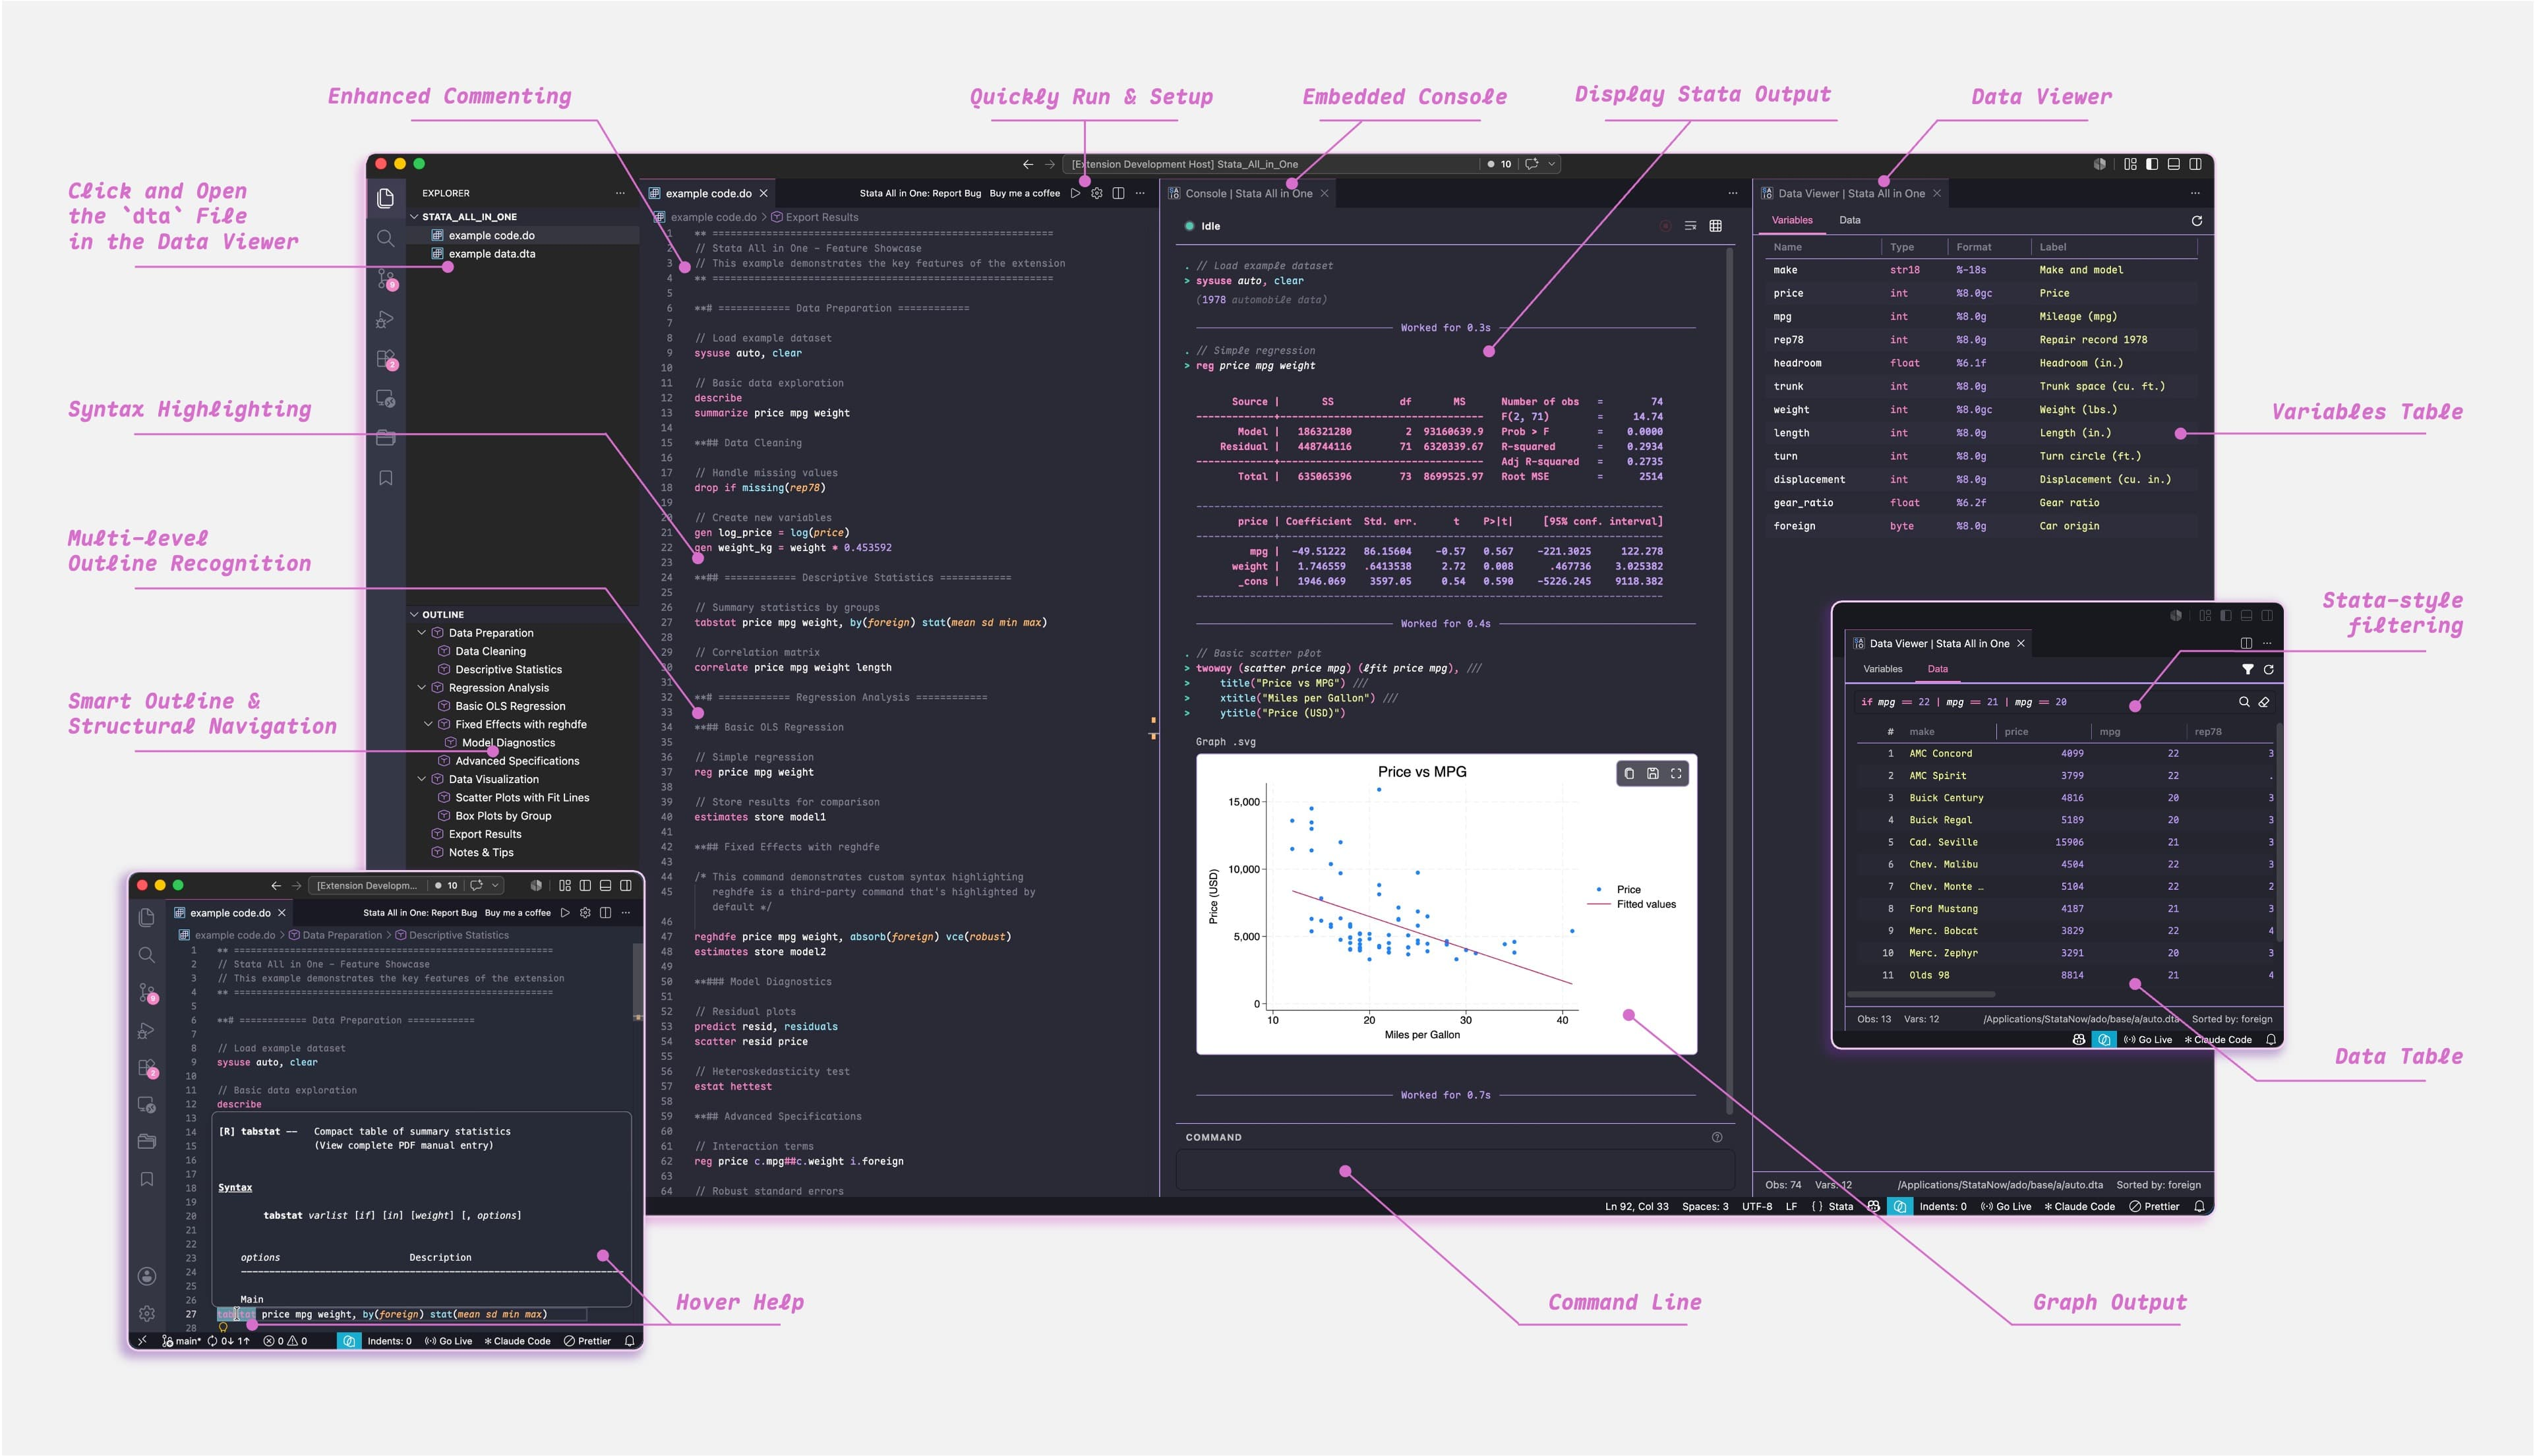
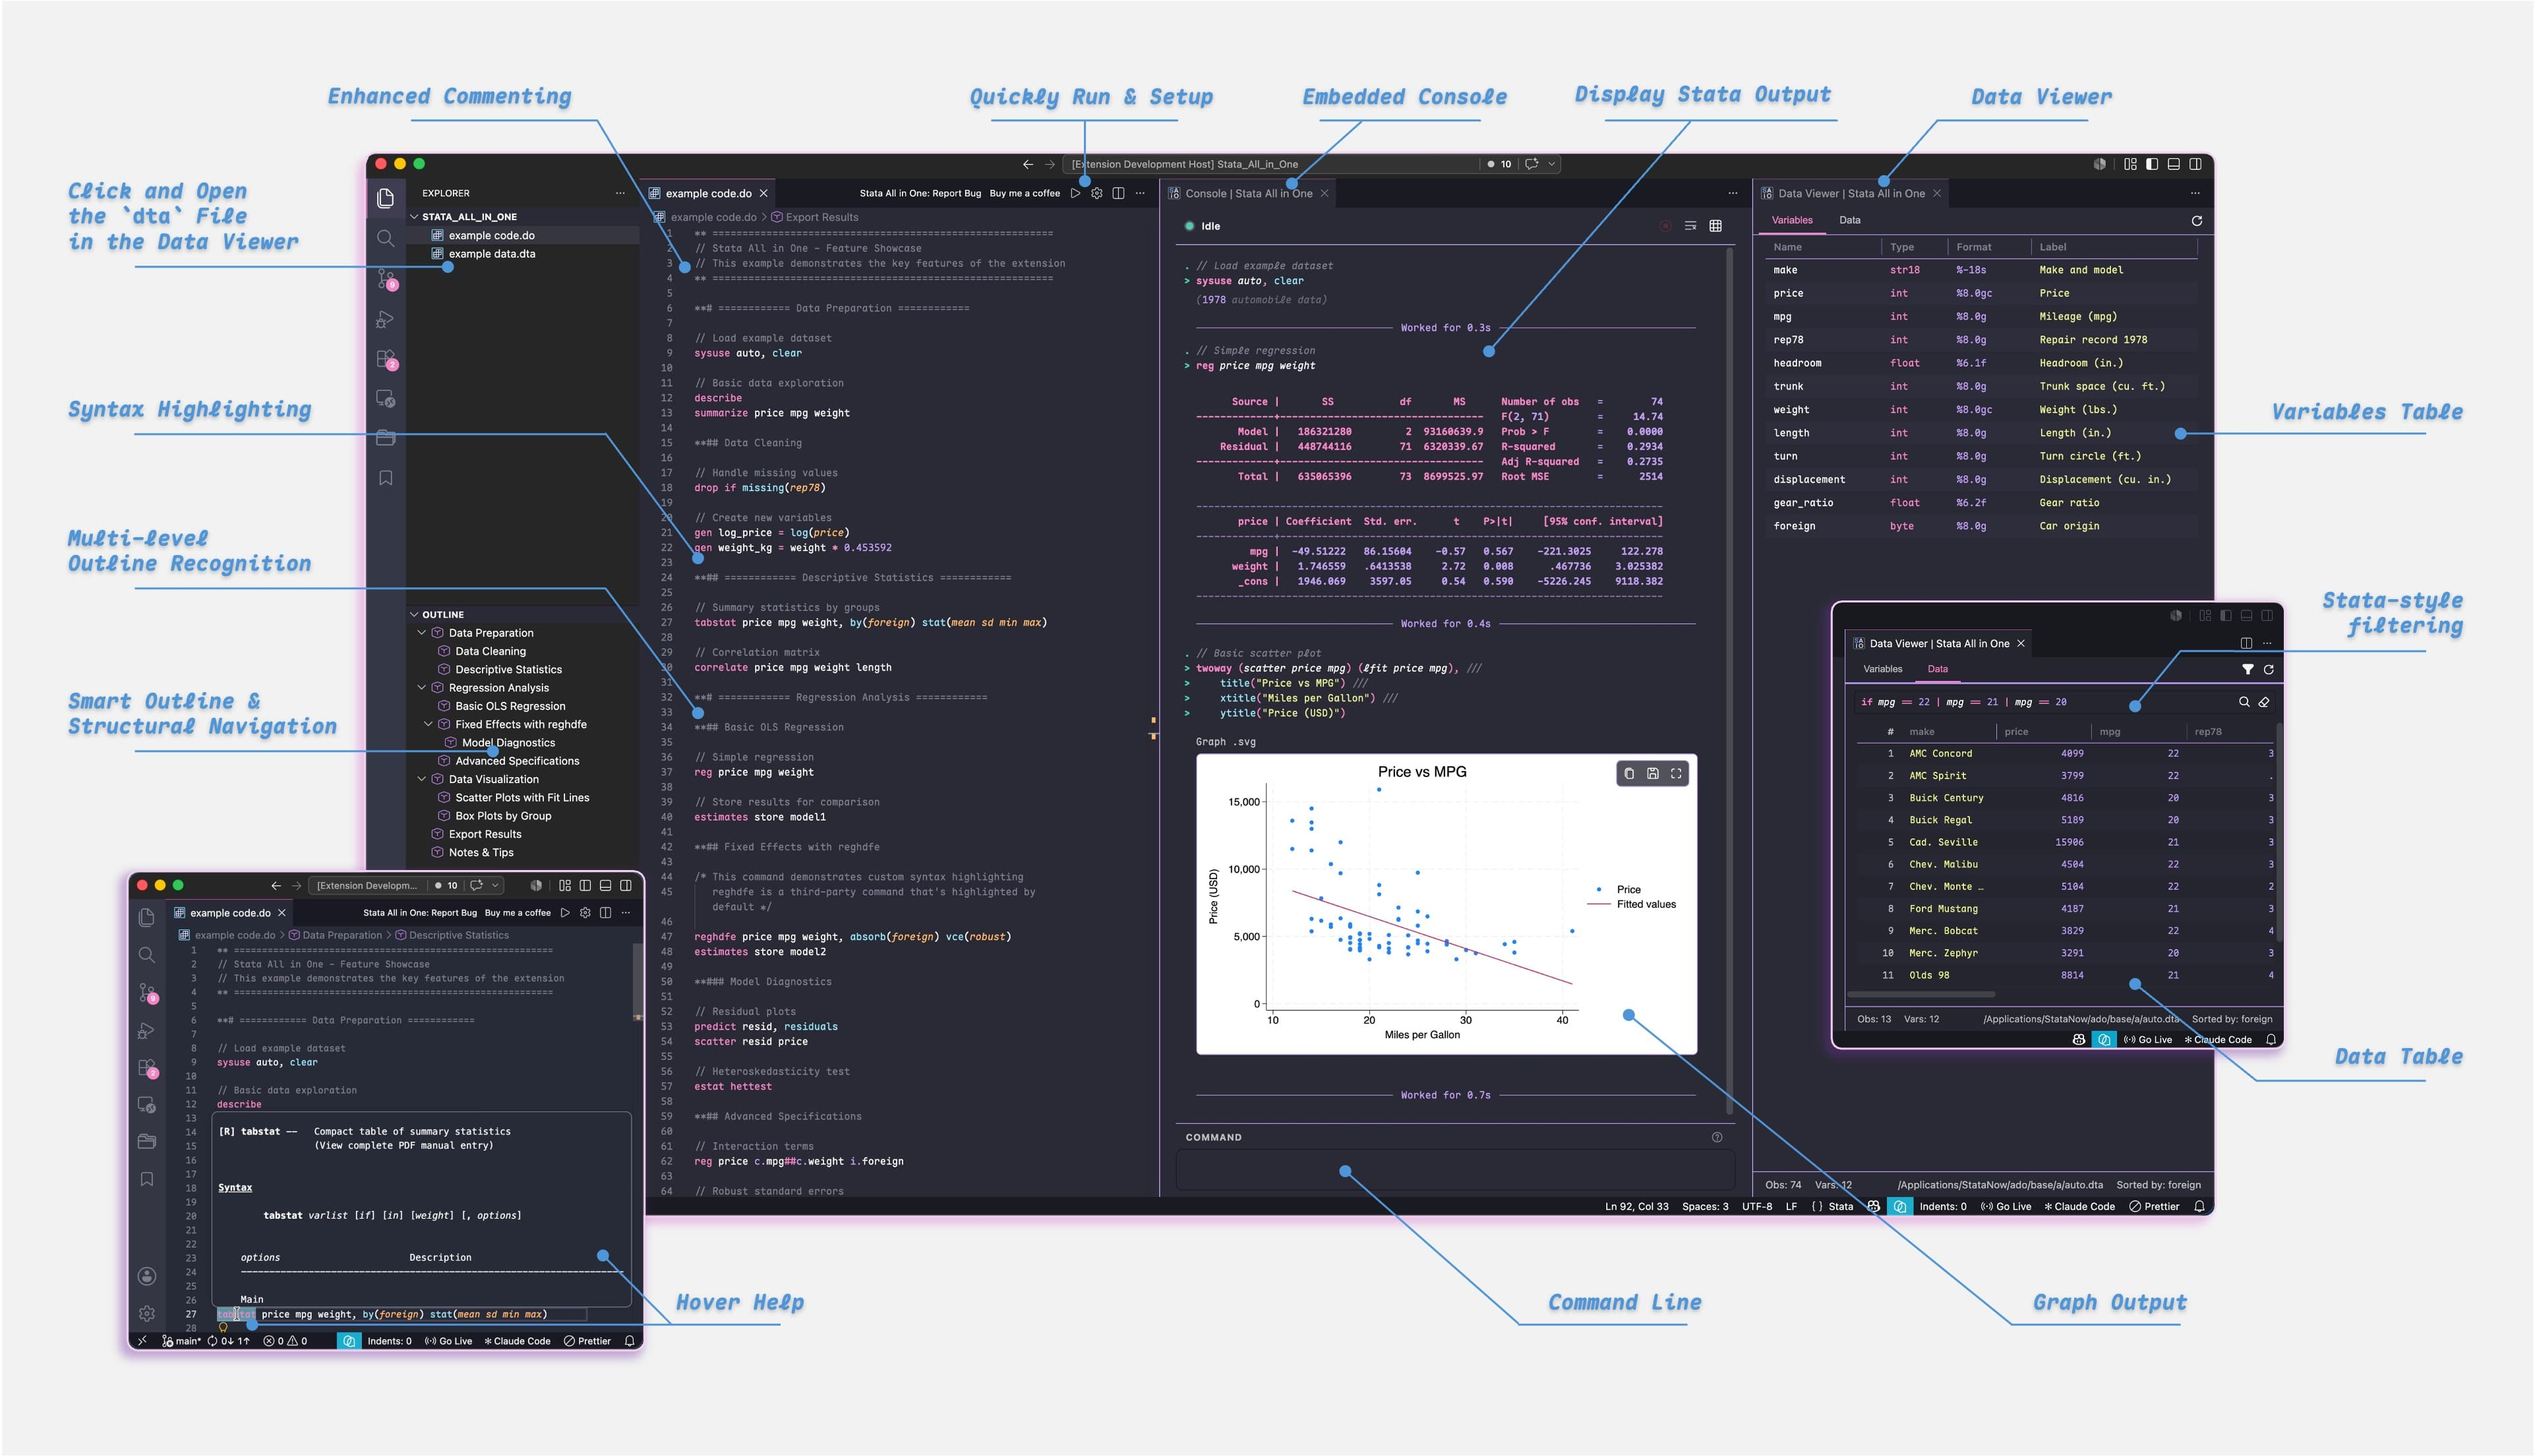
docs: update README files to highlight out-of-the-box functionality

diff --git a/README.md b/README.md
@@ -21,6 +21,8 @@ Stata All in One
 
 <h3 align="center"><b>All-in-one</b> Stata experience: </br>Code Execution + Syntax Highlighting + Code Completion + Smart Outline + Data Viewing!</h3>
 
+<h3 align="center"><b>Ready out of the box!</b><br>Natively integrated into VS Code—no need to configure external environments like Python or Node.js.</h3>
+
 <p align="center">
    <a href="https://marketplace.visualstudio.com/items?itemName=ZihaoVistonWang.stata-all-in-one"><img src="https://img.shields.io/endpoint?url=https%3A%2F%2Fapi.zihaowang.cn%2Fvscode-install&style=for-the-badge&labelColor=363a4f&color=a6da95&label=VS Code Installations" alt="VS Code Installations"></a>
    <a href="https://xhslink.com/o/4Zs0aSfJSK"><img src="https://img.shields.io/endpoint?url=https://api.zihaowang.cn/rednote-noteinfo&label=Likes%20and%20collection&labelColor=363a4f&color=b7bdf8&style=for-the-badge" alt="Rednote Interactions ~500"></a>

diff --git a/README_CN.md b/README_CN.md
@@ -21,6 +21,8 @@ Stata All in One
 
 <h3 align="center">一站式 Stata 体验：</br>运行代码 + 语法高亮 + 代码提示 + 智能大纲 + 数据查看，<b>All in One</b>!</h3>
 
+<h3 align="center"><b>开箱即用！</b></br>所有功能均原生集成于 VS Code，无需额外配置 Python、Node.js 等任何第三方环境。</h3>
+
 <p align="center">
    <a href="https://marketplace.visualstudio.com/items?itemName=ZihaoVistonWang.stata-all-in-one"><img src="https://img.shields.io/endpoint?url=https%3A%2F%2Fapi.zihaowang.cn%2Fvscode-install&style=for-the-badge&labelColor=363a4f&color=a6da95&label=VS Code安装" alt="VS Code 安装次数"></a>
    <a href="https://xhslink.com/o/4Zs0aSfJSK"><img src="https://img.shields.io/endpoint?url=https://api.zihaowang.cn/rednote-noteinfo&label=Rednote互动数据&labelColor=363a4f&color=b7bdf8&style=for-the-badge" alt="Rednote互动数据 ~500"></a>